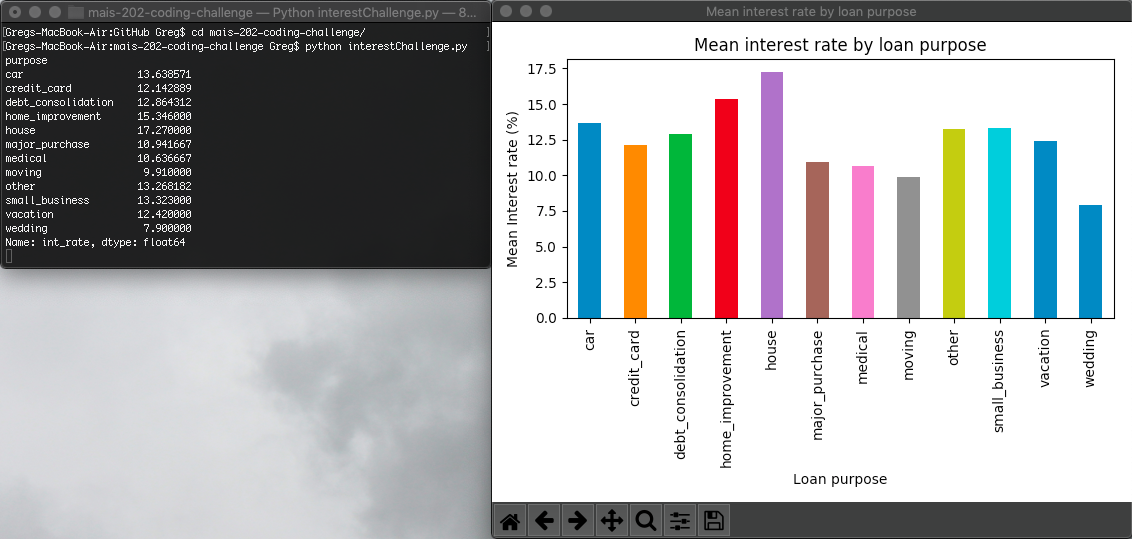
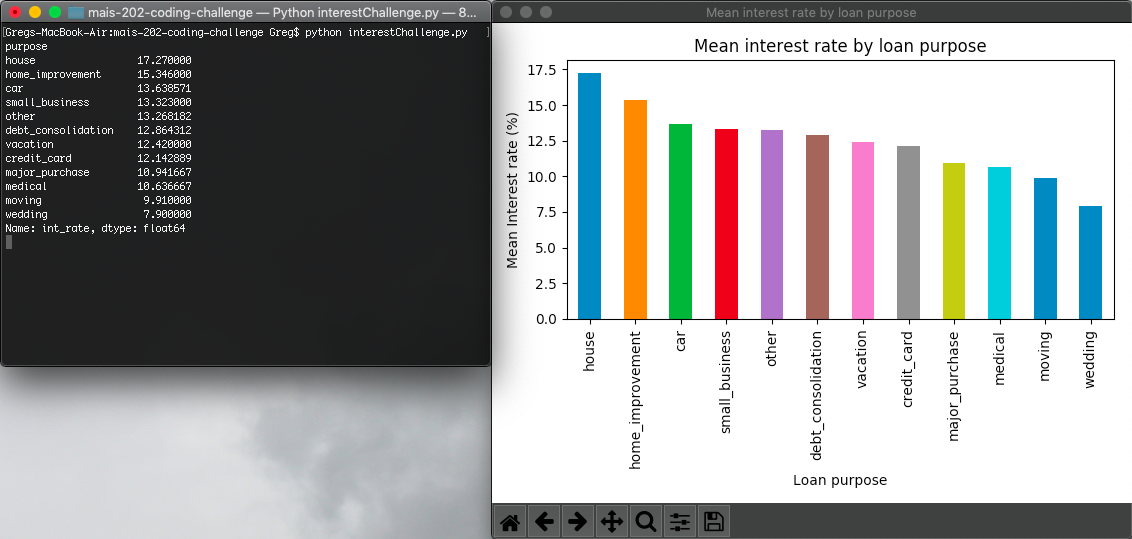
Added descending sort

diff --git a/interestChallenge.py b/interestChallenge.py
@@ -3,7 +3,7 @@ import matplotlib.pyplot as plt
 
 #Accessing and treating data
 data = pd.read_csv("data.csv")
-grouped = data.groupby('purpose')['int_rate'].mean()
+grouped = data.groupby('purpose')['int_rate'].mean().sort_values(ascending=False)
 
 #Printing grouped data to console
 print(grouped)
